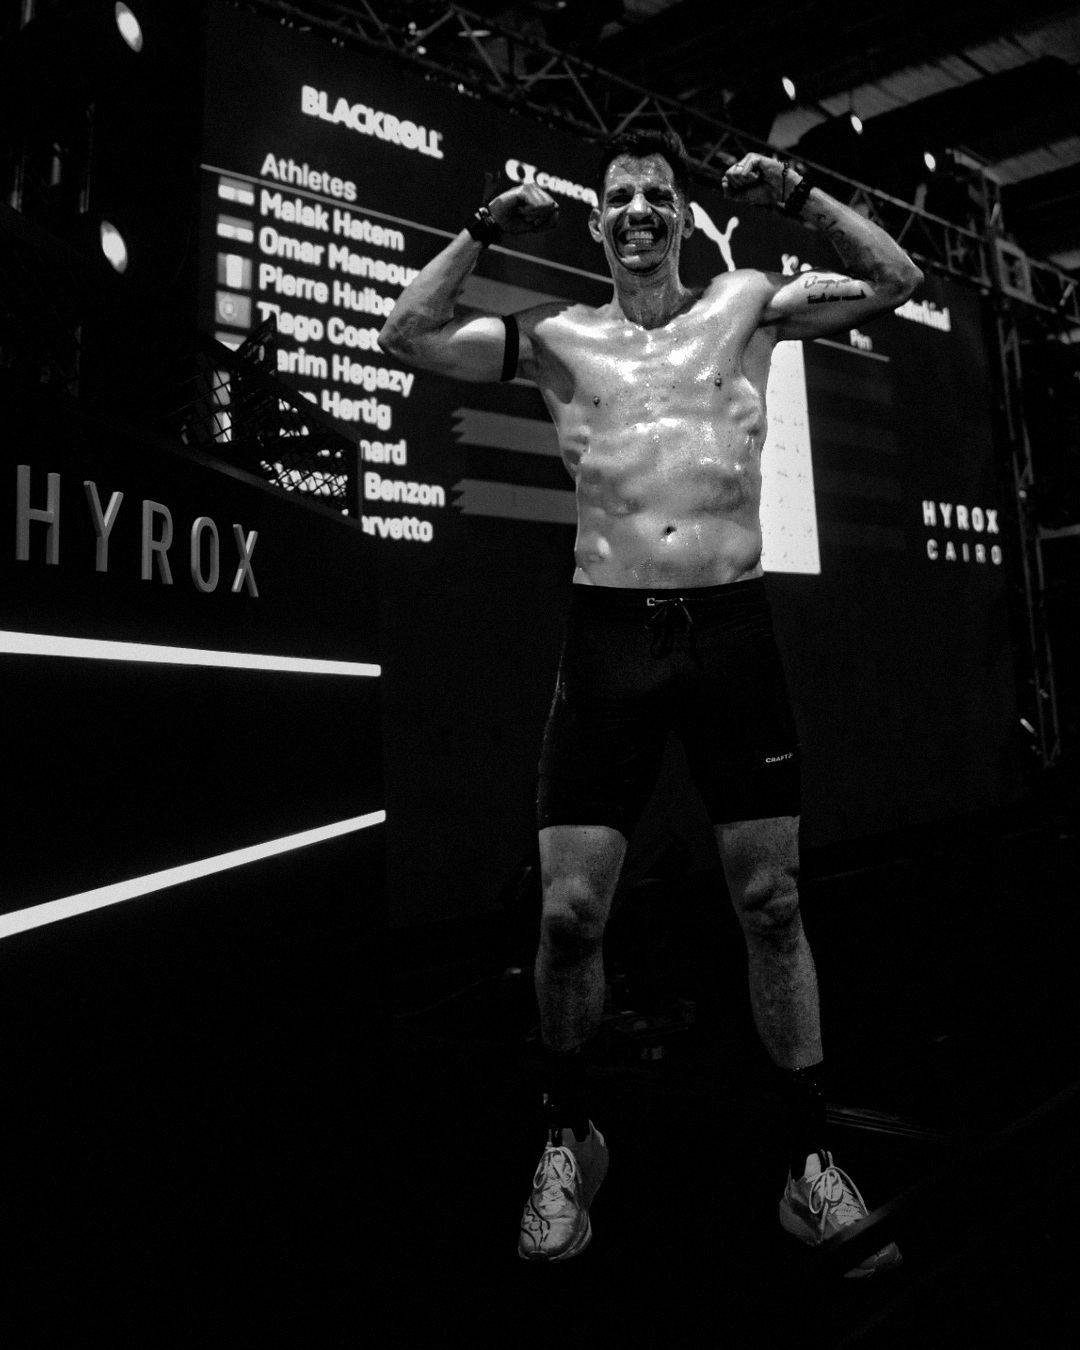
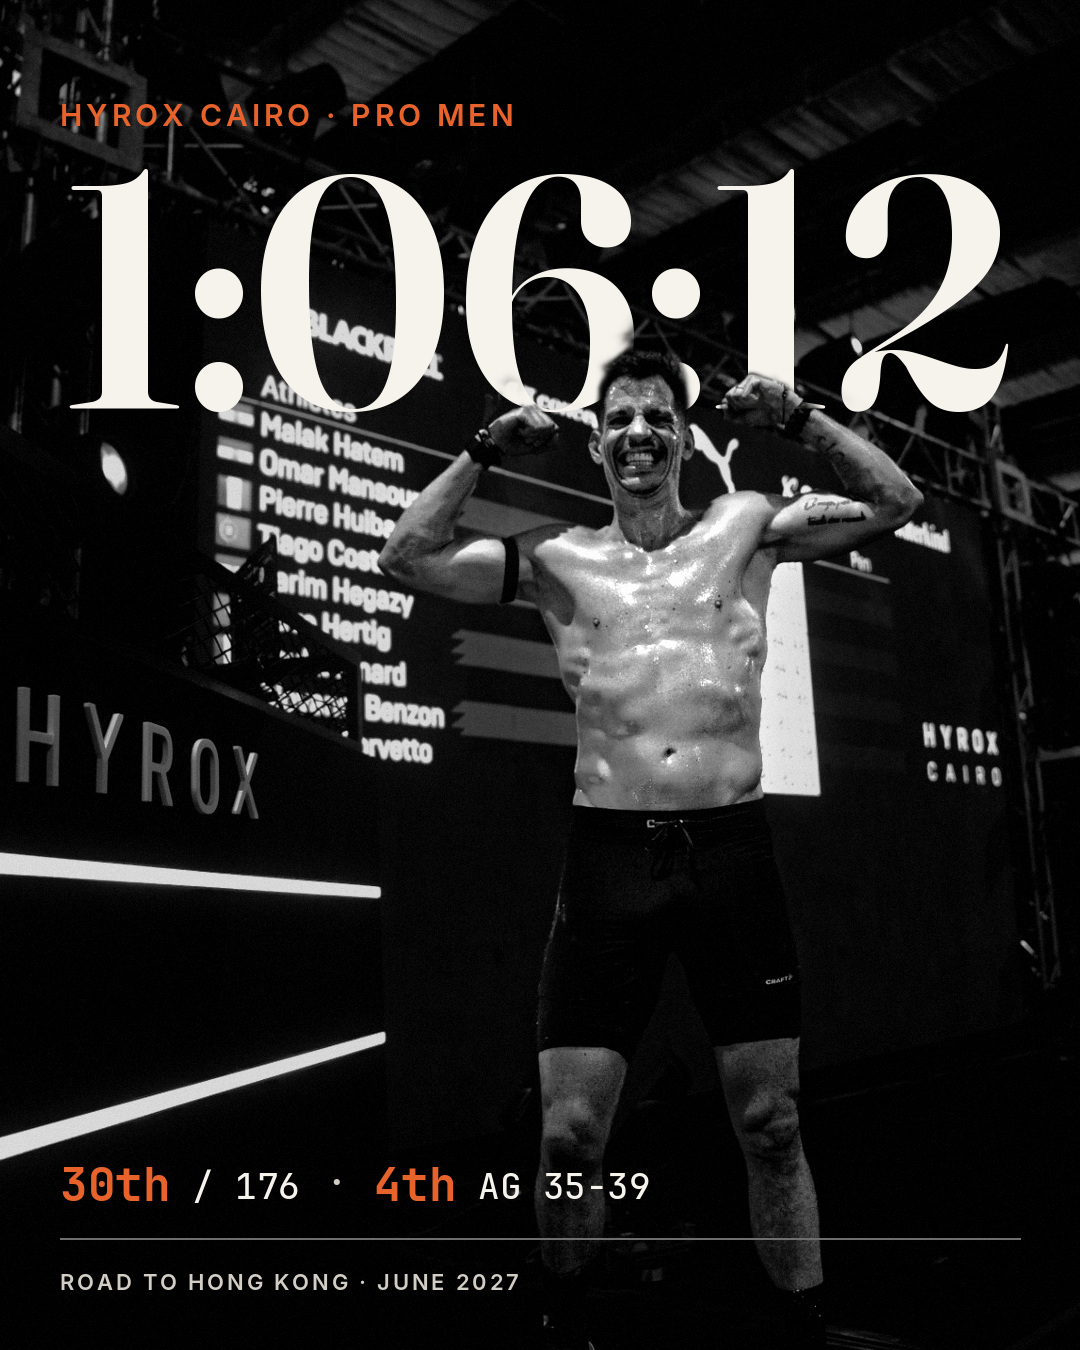
Pierre Huiban, Cairo : chrono derrière Pierre, post en mode notification
Visuel N&B avec le chrono géant posé derrière Pierre (détourage) et le rang en bas,
à la demande de Maxime. Pierre publie lui-même : le post Metricool passe en mode
notification (draft false, autoPublish false), la relève ne l'arme pas.

Claude-Session: https://claude.ai/code/session_01W2Peztd9sHkM5EtdYrkijF

diff --git a/projets/pierre-huiban/caire-2026/visuel_chrono_derriere.py b/projets/pierre-huiban/caire-2026/visuel_chrono_derriere.py
@@ -1,0 +1,45 @@
+# Visuel Cairo 15/11/2026 : photo N&B + masque + glow, chrono géant DERRIÈRE Pierre (son détourage repasse devant), rang en bas. Usage : python3 visuel_chrono_derriere.py DOSSIER(cairo-arrivee.jpg, cut-cairo.png) SORTIE.jpg
+import sys
+sys.path.insert(0, 'scripts')
+import numpy as np
+from PIL import Image, ImageDraw, ImageFilter
+import hyrox_visuel as hv
+S = sys.argv[1]; sortie = sys.argv[2]
+src = Image.open(f'{S}/cairo-arrivee.jpg').convert('RGB')
+m = Image.open(f'{S}/cut-cairo.png').getchannel('A').resize(src.size)
+box = (8, 330, 1128, 1730)
+W, H = 1080, 1350
+img = src.crop(box).resize((W, H), Image.LANCZOS)
+mm = m.crop(box).resize((W, H))
+fond = hv.etalonner(img, mm)
+
+DAWN, BLANC, PALE = (232, 99, 43), (246, 243, 237), (210, 205, 197)
+# Calque DERRIÈRE Pierre : le chrono géant et le label
+der = Image.new('RGBA', (W, H), (0, 0, 0, 0)); d = ImageDraw.Draw(der)
+f = hv.police('titre', 330)
+txt = '1:06:12'
+while d.textlength(txt, font=f) > W - 70: f = hv.police('titre', f.size - 6)
+bb = d.textbbox((0, 0), txt, font=f)
+x = (W - (bb[2] - bb[0])) // 2 - bb[0]; y = 168 - bb[1]
+d.text((x, y), txt, font=f, fill=BLANC + (255,))
+hv._espace(d, (60, 96), 'HYROX CAIRO · PRO MEN', hv.police('label', 30), DAWN + (255,), 4)
+# Pierre repasse devant : alpha du texte coupé par son masque (léger flou du bord)
+pm = np.asarray(mm.filter(ImageFilter.GaussianBlur(1.5)), np.float32) / 255
+a = np.asarray(der.getchannel('A'), np.float32) * (1 - pm)
+der.putalpha(Image.fromarray(a.astype(np.uint8)))
+out = fond.convert('RGBA'); out.alpha_composite(der)
+
+# Calque DEVANT, en bas sur le sol sombre : rang et catégorie, pied
+dv = ImageDraw.Draw(out)
+fs, fsm = hv.police('mono', 46), hv.police('mono_m', 36)
+yb = H - 112
+dv.line([(60, yb), (W - 60, yb)], fill=(110, 110, 110), width=2)
+hv._espace(dv, (60, yb + 30), 'ROAD TO HONG KONG · JUNE 2027', hv.police('label', 22), PALE, 2.8)
+x = 60; ys = yb - 84
+for i, (fort, reste) in enumerate([('30th', ' / 176'), ('4th', ' AG 35-39')]):
+    dv.text((x, ys), fort, font=fs, fill=DAWN); x += dv.textlength(fort, font=fs)
+    dv.text((x, ys + 8), reste, font=fsm, fill=BLANC); x += dv.textlength(reste, font=fsm)
+    if i == 0:
+        x += 26; dv.text((x, ys + 4), '·', font=fsm, fill=PALE); x += dv.textlength('·', font=fsm) + 26
+out.convert('RGB').save(sortie, quality=94, subsampling=0)
+print(sortie)
